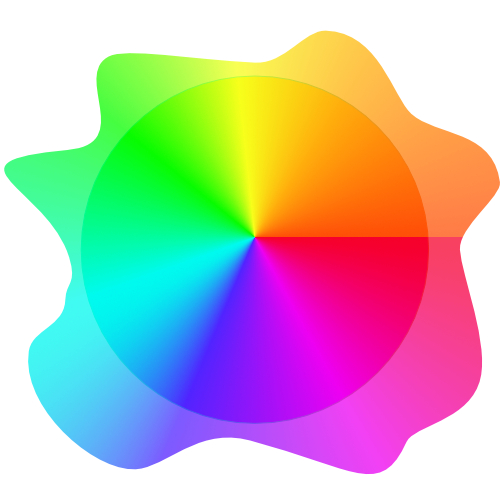
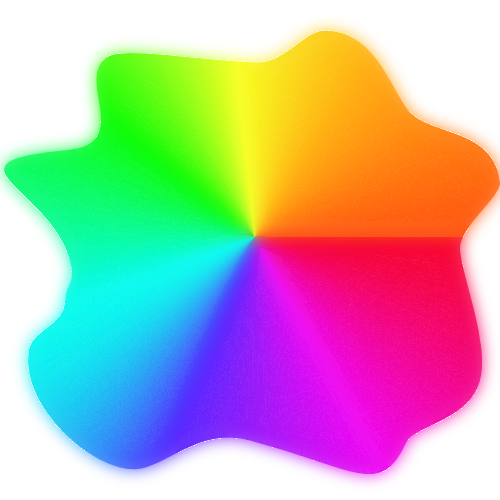
added new cards and updated styling

diff --git a/src/component/pages/Dashboard.js b/src/component/pages/Dashboard.js
@@ -26,7 +26,10 @@ import {
   GithubCat,
   Concurrent,
   Bootstrap,
-  AudioVis
+  AudioVis,
+  Oak,
+  Portfolio,
+  Banking
 } from "../../images/images";
 
 const Dashboard = () => {
@@ -103,6 +106,7 @@ const Dashboard = () => {
                 hov="hov1"
                 demo_url="https://jamestlopez.github.io/chord-finder/"
                 about_url=""
+                isDemo={true}
                 source_url="https://github.com/JamesTLopez/chord-finder"
                 demo_example="https://user-images.githubusercontent.com/44413841/88328694-d3767b80-ccf6-11ea-9d21-ee3c975893b9.gif"
                 description="A chord finding app that displays the type of chord played based on the notes pressed on the keyboard or tells the notes a chord is create from the selected chord buttons displayed at the bottom."
@@ -115,6 +119,7 @@ const Dashboard = () => {
                 hov="hov2"
                 demo_url="https://jamestlopez.github.io/easy-git/"
                 about_url=""
+                isDemo={true}
                 source_url="https://github.com/JamesTLopez/easy-git"
                 demo_example="https://user-images.githubusercontent.com/44413841/91918490-06664480-ec91-11ea-8a1f-5e983cb8aa2f.gif"
                 description="A simple react typescript app that searches and displays a users github repos and information."
@@ -125,8 +130,9 @@ const Dashboard = () => {
                 image={AudioVis}
                 id="audiovis"
                 hov="hov3"
-                demo_url="https://jamestlopez.github.io/easy-git/"
+                demo_url={''}
                 about_url=""
+                isDemo={false}
                 source_url="https://github.com/JamesTLopez/audio-visualizer"
                 demo_example="https://user-images.githubusercontent.com/44413841/93008254-a39e6400-f540-11ea-8af4-3781fc750691.gif"
                 description="An app that analyzes the frequency spectrum of a input audio media file and visualizes it using the animation library p5."
@@ -138,6 +144,7 @@ const Dashboard = () => {
                 id="onlinewhite"
                 hov="hov4"
                 demo_url={null}
+                isDemo={false}
                 about_url=""
                 source_url="https://github.com/JamesTLopez/Online-Whiteboard"
                 demo_example="https://user-images.githubusercontent.com/44413841/88430155-f58aff00-cdc5-11ea-8bbc-f92eb68d9067.gif"
@@ -160,11 +167,25 @@ const Dashboard = () => {
                   source_url="https://github.com/JamesTLopez/Concurrent-File-Editing"
                   demo_example="https://user-images.githubusercontent.com/44413841/88588057-ece43400-d024-11ea-99dc-896e9381ac99.gif"
                   description="A concurrent file editing app that allows users to save and access created documents. Users and simultaneously edit the document at the same time"
-                  tech={[HTML]}
+                  tech={[HTML,Node,CSS]}
                 />
                 <ToolkitCard
                   name="my-portfolio"
-                  image={Concurrent}
+                  image={Portfolio}
+                  source_url="https://github.com/JamesTLopez/my-portfolio"
+                  description="The repository for my portfolio website"
+                  tech={[HTML,Reacts,Sass,Javascript]}
+                />
+                <ToolkitCard
+                  name="me-banking"
+                  image={Banking}
+                  source_url="https://github.com/JamesTLopez/my-portfolio"
+                  description="A banking admin app that manages clients income. DATABASE EXPIRED"
+                  tech={[HTML,Reacts,Sass,Javascript]}
+                />
+                    <ToolkitCard
+                  name="Oak"
+                  image={Oak}
                   source_url="https://github.com/JamesTLopez/my-portfolio"
                   description="The repository for my portfolio website"
                   tech={[HTML,Reacts,Sass,Javascript]}

diff --git a/src/styles/toolkitcard.css b/src/styles/toolkitcard.css
@@ -6,9 +6,9 @@
   -webkit-box-pack: center;
       -ms-flex-pack: center;
           justify-content: center;
-  height: 300px;
-  width: 200px;
-  background-color: #59637e;
+  height: 250px;
+  width: 300px;
+  background-color: #32366d;
   margin: 20px;
 }
 
@@ -22,7 +22,6 @@
       -ms-flex-direction: column;
           flex-direction: column;
   width: 100%;
-  margin-top: 20px;
   border-radius: 2px;
   -webkit-transition: all 0.2s;
   transition: all 0.2s;
@@ -35,11 +34,12 @@
   -webkit-box-pack: center;
       -ms-flex-pack: center;
           justify-content: center;
+  height: 60%;
 }
 
 .toolkit-card-container .tookit-card .image-box img {
-  height: 100px;
-  width: 100px;
+  height: 100%;
+  width: 100%;
 }
 
 .toolkit-card-container .tookit-card .content-box {
@@ -50,7 +50,7 @@
   -webkit-box-direction: normal;
       -ms-flex-direction: column;
           flex-direction: column;
-  height: 100%;
+  height: 40%;
 }
 
 .toolkit-card-container .tookit-card .content-box .content-title {
@@ -60,8 +60,6 @@
   -webkit-box-pack: center;
       -ms-flex-pack: center;
           justify-content: center;
-  padding-top: 30px;
-  padding-bottom: 30px;
 }
 
 .toolkit-card-container .tookit-card .content-box .content-title label {

diff --git a/src/styles/toolkitcard.scss b/src/styles/toolkitcard.scss
@@ -2,37 +2,37 @@
   position: relative;
   display: flex;
   justify-content: center;
-  height: 300px;
-  width: 200px;
-  background-color: #59637e;
+  height: 250px;
+  width: 300px;
+  background-color: #32366d;
   margin: 20px;
   .tookit-card {
     position: relative;
     display: flex;
     flex-direction: column;
     width: 100%;
-    margin-top: 20px;
+
     border-radius: 2px;
     transition: all 0.2s;
 
     .image-box {
       display: flex;
       justify-content: center;
+      height: 60%;
       img {
-        height: 100px;
-        width: 100px;
+        height: 100%;
+        width: 100%;
       }
     }
     .content-box {
       display: flex;
       flex-direction: column;
-      height: 100%;
+      height: 40%;
 
       .content-title {
           display: flex;
           justify-content: center;
-          padding-top: 30px;
-          padding-bottom:30px ;
+  
         label {
             font-family: "Oswald", sans-serif;
           font-size: 20px;

diff --git a/src/App.css b/src/App.css
@@ -1023,7 +1023,7 @@ body .home-page .content .toolkit-content .toolkit-container .toolkit-cards .car
   padding-bottom: 20px;
 }
 
-@media (max-width: 1330px) {
+@media only screen and (max-width: 1330px) {
   html .home-page .content .toolkit-content,
   body .home-page .content .toolkit-content,
   #root .home-page .content .toolkit-content,
@@ -1033,7 +1033,21 @@ body .home-page .content .toolkit-content .toolkit-container .toolkit-cards .car
     min-height: 300px;
     width: 100%;
     position: relative;
-    top: 900px;
+    top: 600px;
+  }
+}
+
+@media only screen and (max-width: 630px) {
+  html .home-page .content .toolkit-content,
+  body .home-page .content .toolkit-content,
+  #root .home-page .content .toolkit-content,
+  .App .home-page .content .toolkit-content,
+  .home-page .home-page .content .toolkit-content {
+    height: 100%;
+    min-height: 300px;
+    width: 100%;
+    position: relative;
+    top: 1300px;
   }
 }
 /*# sourceMappingURL=App.css.map */

diff --git a/src/App.scss b/src/App.scss
@@ -540,13 +540,26 @@ body,
                     }
                 }
             }
-            @media (max-width:1330px) {
+            @media only screen  and (max-width:1330px) {
                 .toolkit-content {
                     height: 100%;
                     min-height: 300px;
                     width: 100%;
                     position: relative;
-                    top:900px;
+                    top:600px;
+    
+                    
+                }
+                
+            }
+
+            @media only screen  and (max-width:630px) {
+                .toolkit-content {
+                    height: 100%;
+                    min-height: 300px;
+                    width: 100%;
+                    position: relative;
+                    top:1300px;
     
                     
                 }

diff --git a/src/component/layout/ProjectCard.js b/src/component/layout/ProjectCard.js
@@ -11,6 +11,7 @@ function ProjectCard({
   demo_example,
   description,
   tech,
+  isDemo
 }) {
   const [isModal, updateModal] = useState(false);
 
@@ -34,7 +35,7 @@ function ProjectCard({
             </section>
             <section>
               <a href={demo_url} alt="Not available" target="_blank" rel="noopener noreferrer">
-                <button className="but1">Demo</button>
+              <button className="but1">{!isDemo ? <strike><label>Demo</label></strike> : <label>Demo</label>}</button>
               </a>
             </section>
             <section>

diff --git a/src/images/images.js b/src/images/images.js
@@ -22,3 +22,6 @@ export {default as GithubCat} from "./image/githubcat.png"
 export {default as Concurrent} from "./image/concurrent.png"
 export {default as Bootstrap} from "./image/bootstrap.png"
 export {default as AudioVis} from "./image/audiovis.png"
+export {default as Oak} from "./image/oak.png"
+export {default as Portfolio} from "./image/myportfolio.png"
+export {default as Banking} from "./image/mebanking.png"

diff --git a/src/styles/card.scss b/src/styles/card.scss
@@ -1,5 +1,6 @@
 .card-container {
     position: relative;
+   
     margin: 30px;
 
     .hov1:hover {
